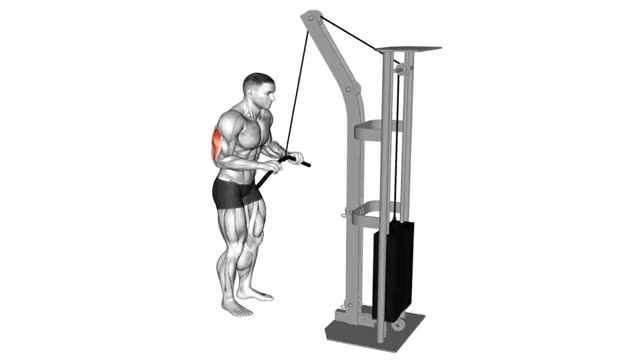
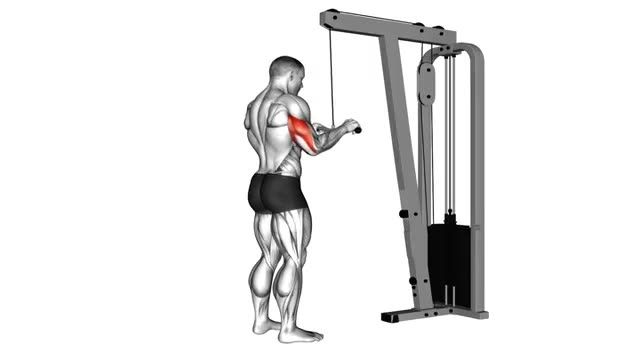
Triceps Bar Pushdown: EZ-bar video; cache-buster for replaced videos
Claude-Session: https://claude.ai/code/session_01Vdzj1YGMCaVc3tcbYN3MBF

Changed region(s): [[0.3125, 0.0, 0.7812, 0.9778]]

diff --git a/index.html b/index.html
@@ -3263,7 +3263,7 @@ body.wo-on{padding-bottom:calc(180px + env(safe-area-inset-bottom));}
   IMG.legpress=["img/legpress-0.jpg","img/legpress-1.jpg"]; IMG.legext=["img/legext-0.jpg","img/legext-1.jpg"]; IMG.stepup=["img/stepup-0.jpg","img/stepup-1.jpg"]; IMG.walklunge=["img/walklunge-0.jpg","img/walklunge-1.jpg"]; IMG.hacksquat=["img/hacksquat-0.jpg","img/hacksquat-1.jpg"]; IMG.bridge=["img/bridge-0.jpg","img/bridge-1.jpg"]; IMG.calfraise=["img/calfraise-0.jpg","img/calfraise-1.jpg"]; IMG.cablelateral=["img/cablelateral-0.jpg","img/cablelateral-1.jpg"];
   IMG.dbfly=["img/dbfly-0.jpg","img/dbfly-1.jpg"]; IMG.crossover=["img/crossover-0.jpg","img/crossover-1.jpg"]; IMG.inclinemachine=["img/inclinemachine-0.jpg","img/inclinemachine-1.jpg"]; IMG.lowfly=["img/lowfly-0.jpg","img/lowfly-1.jpg"]; IMG.hipthrust=["img/hipthrust-0.jpg","img/hipthrust-1.jpg"]; IMG.seatedlegcurl=["img/seatedlegcurl-0.jpg","img/seatedlegcurl-1.jpg"]; IMG.pullthrough=["img/pullthrough-0.jpg","img/pullthrough-1.jpg"]; IMG.kickback=["img/kickback-0.jpg","img/kickback-1.jpg"]; IMG.seatedcalf=["img/seatedcalf-0.jpg","img/seatedcalf-1.jpg"]; IMG.rowmachine=["img/rowmachine-0.jpg","img/rowmachine-1.jpg"]; IMG.onearmcablerow=["img/onearmcablerow-0.jpg","img/onearmcablerow-1.jpg"]; IMG.highrow=["img/highrow-0.jpg","img/highrow-1.jpg"]; IMG.tbarrow=["img/tbarrow-0.jpg","img/tbarrow-1.jpg"]; IMG.arnold=["img/arnold-0.jpg","img/arnold-1.jpg"]; IMG.reversefly=["img/reversefly-0.jpg","img/reversefly-1.jpg"]; IMG.reardelt=["img/reardelt-0.jpg","img/reardelt-1.jpg"]; IMG.frontraise=["img/frontraise-0.jpg","img/frontraise-1.jpg"]; IMG.shrug=["img/shrug-0.jpg","img/shrug-1.jpg"]; IMG.closepulldown=["img/closepulldown-0.jpg","img/closepulldown-1.jpg"]; IMG.underpulldown=["img/underpulldown-0.jpg","img/underpulldown-1.jpg"]; IMG.straightarm=["img/straightarm-0.jpg","img/straightarm-1.jpg"]; IMG.onearmpulldown=["img/onearmpulldown-0.jpg","img/onearmpulldown-1.jpg"]; IMG.cablereardelt=["img/cablereardelt-0.jpg","img/cablereardelt-1.jpg"]; IMG.deadbug=["img/deadbug-0.jpg","img/deadbug-1.jpg"]; IMG.pallof=["img/pallof-0.jpg","img/pallof-1.jpg"]; IMG.cablecrunch=["img/cablecrunch-0.jpg","img/cablecrunch-1.jpg"]; IMG.dbhammer=["img/dbhammer-0.jpg","img/dbhammer-1.jpg"]; IMG.inclinecurl=["img/inclinecurl-0.jpg","img/inclinecurl-1.jpg"]; IMG.kickbacktri=["img/kickbacktri-0.jpg","img/kickbacktri-1.jpg"]; IMG.dbohext=["img/dbohext-0.jpg","img/dbohext-1.jpg"]; IMG.adduction=["img/adduction-0.jpg","img/adduction-1.jpg"]; IMG.cableadd=["img/cableadd-0.jpg","img/cableadd-1.jpg"]; IMG.bandadd=["img/bandadd-0.jpg","img/bandadd-1.jpg"]; IMG.legpresscalf=["img/legpresscalf-0.jpg","img/legpresscalf-1.jpg"]; IMG.smithbench=["img/smithbench-0.jpg","img/smithbench-1.jpg"]; IMG.dbbench=["img/dbbench-0.jpg","img/dbbench-1.jpg"]; IMG.balllegcurl=["img/balllegcurl-0.jpg","img/balllegcurl-1.jpg"]; IMG.cableextrot=["img/cableextrot-0.jpg","img/cableextrot-1.jpg"]; IMG.bandextrot=["img/bandextrot-0.jpg","img/bandextrot-1.jpg"]; IMG.revcrunch=["img/revcrunch-0.jpg","img/revcrunch-1.jpg"]; IMG.sidebend=["img/sidebend-0.jpg","img/sidebend-1.jpg"]; IMG.ezcurl=["img/ezcurl-0.jpg","img/ezcurl-1.jpg"]; IMG.barpushdown=["img/barpushdown-0.jpg","img/barpushdown-1.jpg"]; IMG.spidercurl=["img/spidercurl-0.jpg","img/spidercurl-1.jpg"]; IMG.sideplank=["img/sideplank-0.jpg","img/sideplank-1.jpg"]; IMG.plankcombo=["img/plank-1.jpg","img/sideplank-1.jpg"];
   /* animaties (exercises-dataset, © Gym visual), naast de foto's: img/anim/<sleutel>.gif */
-  var VID={}; 'armcircle elliptical goblet bulgarian seatedlegcurl chestmachine kickbackmachine pushup dblunge lunge birddog ohext barpushdown pushdown curlmachine cablecurl deadbug backext plank reversefly shouldermachine dbshoulder lateral vbar pulldown widepulldown facepull cablerow rowmachine pullapart hang squat rowing sideplank'.split(' ').forEach(function(k){ VID[k]='img/vid/'+k+'.mp4'; }); VID.cell=VID.elliptical; VID.crow=VID.rowing; VID.legcurl=VID.seatedlegcurl; var VSQ={}; /* VSQ: vierkante video op wit (leeg) */
+  var VID={}; 'armcircle elliptical goblet bulgarian seatedlegcurl chestmachine kickbackmachine pushup dblunge lunge birddog ohext barpushdown pushdown curlmachine cablecurl deadbug backext plank reversefly shouldermachine dbshoulder lateral vbar pulldown widepulldown facepull cablerow rowmachine pullapart hang squat rowing sideplank'.split(' ').forEach(function(k){ VID[k]='img/vid/'+k+'.mp4'; }); VID.cell=VID.elliptical; VID.crow=VID.rowing; VID.legcurl=VID.seatedlegcurl; var VSQ={}; var VIDV=2; /* verhogen als een bestaande video vervangen wordt (iOS-cache) */ /* VSQ: vierkante video op wit (leeg) */
   var ANIM={}; 'abduction abwheel adduction arnold backext backsquat barbellcurl barbellrdl barbellrow barbellshrug barpushdown benchdips benchpress bicycle bike bridge bwlunge cableadd cablecrunch cablecurl cableextrot cablelateral cablereardelt cablerow calfraise carry cbike cell chestmachine chinup cincline climbers closebench concentration crossover crunch crunches csrow cstairs cwalk dbbench dbbentrow dbcalf dbcurl dbfly dbhammer dblunge dbohext dbpress dbshoulder dbupright deadbug deadlift declinepress declinepushup diamond dipmachine dips elliptical ezcurl flutter fly frontraise frontsquat goblet goodmorning hacksquat hangingraise highrow hspu inchworm inclinebench inclinecurl inclinemachine inclinepushup invertedrow jumprope jumpsquat kbswing kickback kickbacktri kneeraise lateral legcurl legext legpress legpresscalf legraise lowfly lunge lyinglegcurl ohext ohp onearmrow pallof pistol preacher pulldown pullover pullthrough pullup pullups pushdown pushup rdl reardelt revcrunch reversecurl reversefly reversehyper ringrow rowmachine russiantwist scappull seatedcalf seatedlegcurl shouldermachine shrug sidebend sissy situp skull slbridge slrdl smithbench smithincline smithsquat spidercurl splitsquat stairs standingcalf stepup straightarm sumo treadmill tricepsmachine underpulldown uprightrow vbar walklunge wgs widepulldown wristcurl'.split(' ').forEach(function(k){ ANIM[k]='img/anim/'+k+'.gif'; });
   IMG.cwalk=['img/walking-0.jpg','img/walking-1.jpg']; IMG.cwalkjog=['img/trail-0.jpg','img/trail-1.jpg']; IMG.ctreadjog=['img/jogtread-0.jpg','img/jogtread-1.jpg']; IMG.crow=['img/rowing-0.jpg','img/rowing-1.jpg']; IMG.cell=['img/elliptical-0.jpg','img/elliptical-1.jpg']; IMG.cbike=['img/bike-0.jpg','img/bike-1.jpg']; IMG.cincline=['img/treadmill-0.jpg','img/treadmill-1.jpg']; IMG.cstairs=['img/stairs-0.jpg','img/stairs-1.jpg']; IMG.crecumbent=['img/recumbent-0.jpg','img/recumbent-1.jpg'];
   IMG.rowing=["img/rowing-0.jpg","img/rowing-1.jpg"]; IMG.elliptical=["img/elliptical-0.jpg","img/elliptical-1.jpg"]; IMG.bike=["img/bike-0.jpg","img/bike-1.jpg"]; IMG.treadmill=["img/treadmill-0.jpg","img/treadmill-1.jpg"];
@@ -3312,8 +3312,8 @@ body.wo-on{padding-bottom:calc(180px + env(safe-area-inset-bottom));}
     requestAnimationFrame(function(){ bg.classList.add('on'); sh.classList.add('on'); });
     var fig=bodyEl.querySelector('.sheet-fig');
     /* video (MuscleWiki) heeft voorrang; anders animatie (Gym visual) alleen; anders foto's (Free Exercise DB) */
-    if(VID[k]&&VSQ[k]){ fig.classList.add('sheet-gif'); fig.innerHTML='<video src="'+VID[k]+'" poster="'+VID[k].replace(/\.mp4$/,'.jpg')+'" autoplay muted loop playsinline preload="auto" aria-label="Animation"></video>'; cur=null; }
-    else if(VID[k]){ fig.classList.add('sheet-mov'); fig.innerHTML='<video src="'+VID[k]+'" poster="'+VID[k].replace(/\.mp4$/,'.jpg')+'" autoplay muted loop playsinline preload="auto" aria-label="Video"></video>'; cur=null; }
+    if(VID[k]&&VSQ[k]){ fig.classList.add('sheet-gif'); fig.innerHTML='<video src="'+VID[k]+'?v='+VIDV+'" poster="'+VID[k].replace(/\.mp4$/,'.jpg')+'?v='+VIDV+'" autoplay muted loop playsinline preload="auto" aria-label="Animation"></video>'; cur=null; }
+    else if(VID[k]){ fig.classList.add('sheet-mov'); fig.innerHTML='<video src="'+VID[k]+'?v='+VIDV+'" poster="'+VID[k].replace(/\.mp4$/,'.jpg')+'?v='+VIDV+'" autoplay muted loop playsinline preload="auto" aria-label="Video"></video>'; cur=null; }
     else if(ANIM[k]){ fig.classList.add('sheet-gif'); fig.innerHTML='<img alt="Animation" src="'+ANIM[k]+'">'; cur=null; }
     else if(IMG[k]){ cur=photos(fig,k); }
     else if(k==='birddog'&&EX[k].poses) cur=player(fig,k); /* uitzondering op vraag van Tom: eigen getekende animatie */

diff --git a/CLAUDE.md b/CLAUDE.md
@@ -282,7 +282,7 @@ Kleur is relatief t.o.v. de best getrainde spier in die periode, zodat je de bal
   Bron: de originele Gym visual-video's (720 px, zelfde stijl als de GIF's, naadloze lus) die Tom aanlevert, voor al zijn actieve oefeningen;
   enkel Arm Circles is nog een MuscleWiki-video (watermerk laten staan). Lijst in `VID` (spatielijst EX-sleutels; `VID.cell` = elliptical,
   `VID.legcurl` = seatedlegcurl; ook Band Pull-Aparts `pullapart`, Dead Hang `hang` , Bodyweight Squats `squat` , Rowing Machine `rowing` = ook cardio Rower via `VID.crow`, en Side Plank `sideplank`). Encoderen: `ffmpeg -nostdin` (anders eet ffmpeg de stdin van een lus op), `-an`, scale 640, crf 26.
-  `VSQ` (vierkante video op wit) bestaat nog maar is leeg. Bird Dog: video; de getekende `player`-animatie blijft als terugval.
+  `VSQ` (vierkante video op wit) bestaat nog maar is leeg. Vervang je een bestaande video, verhoog dan `VIDV` (cache-buster `?v=` op video + poster, anders toont iOS de oude). Bird Dog: video; de getekende `player`-animatie blijft als terugval.
   Padel staat er zonder beeld. Torso Rotation (`w0-torso-rotation`, g0, reps) is op vraag van Tom terug, standaard aan; wie al een
   opwarmingskeuze had krijgt ze erbij via `migrate()` (vlag `tr` in cfg/groups); foto's `img/rotation-0/1.jpg` = afbeelding van Tom (handen op de heupen), in twee
   gesplitst en op wit 3:2 gezet.
